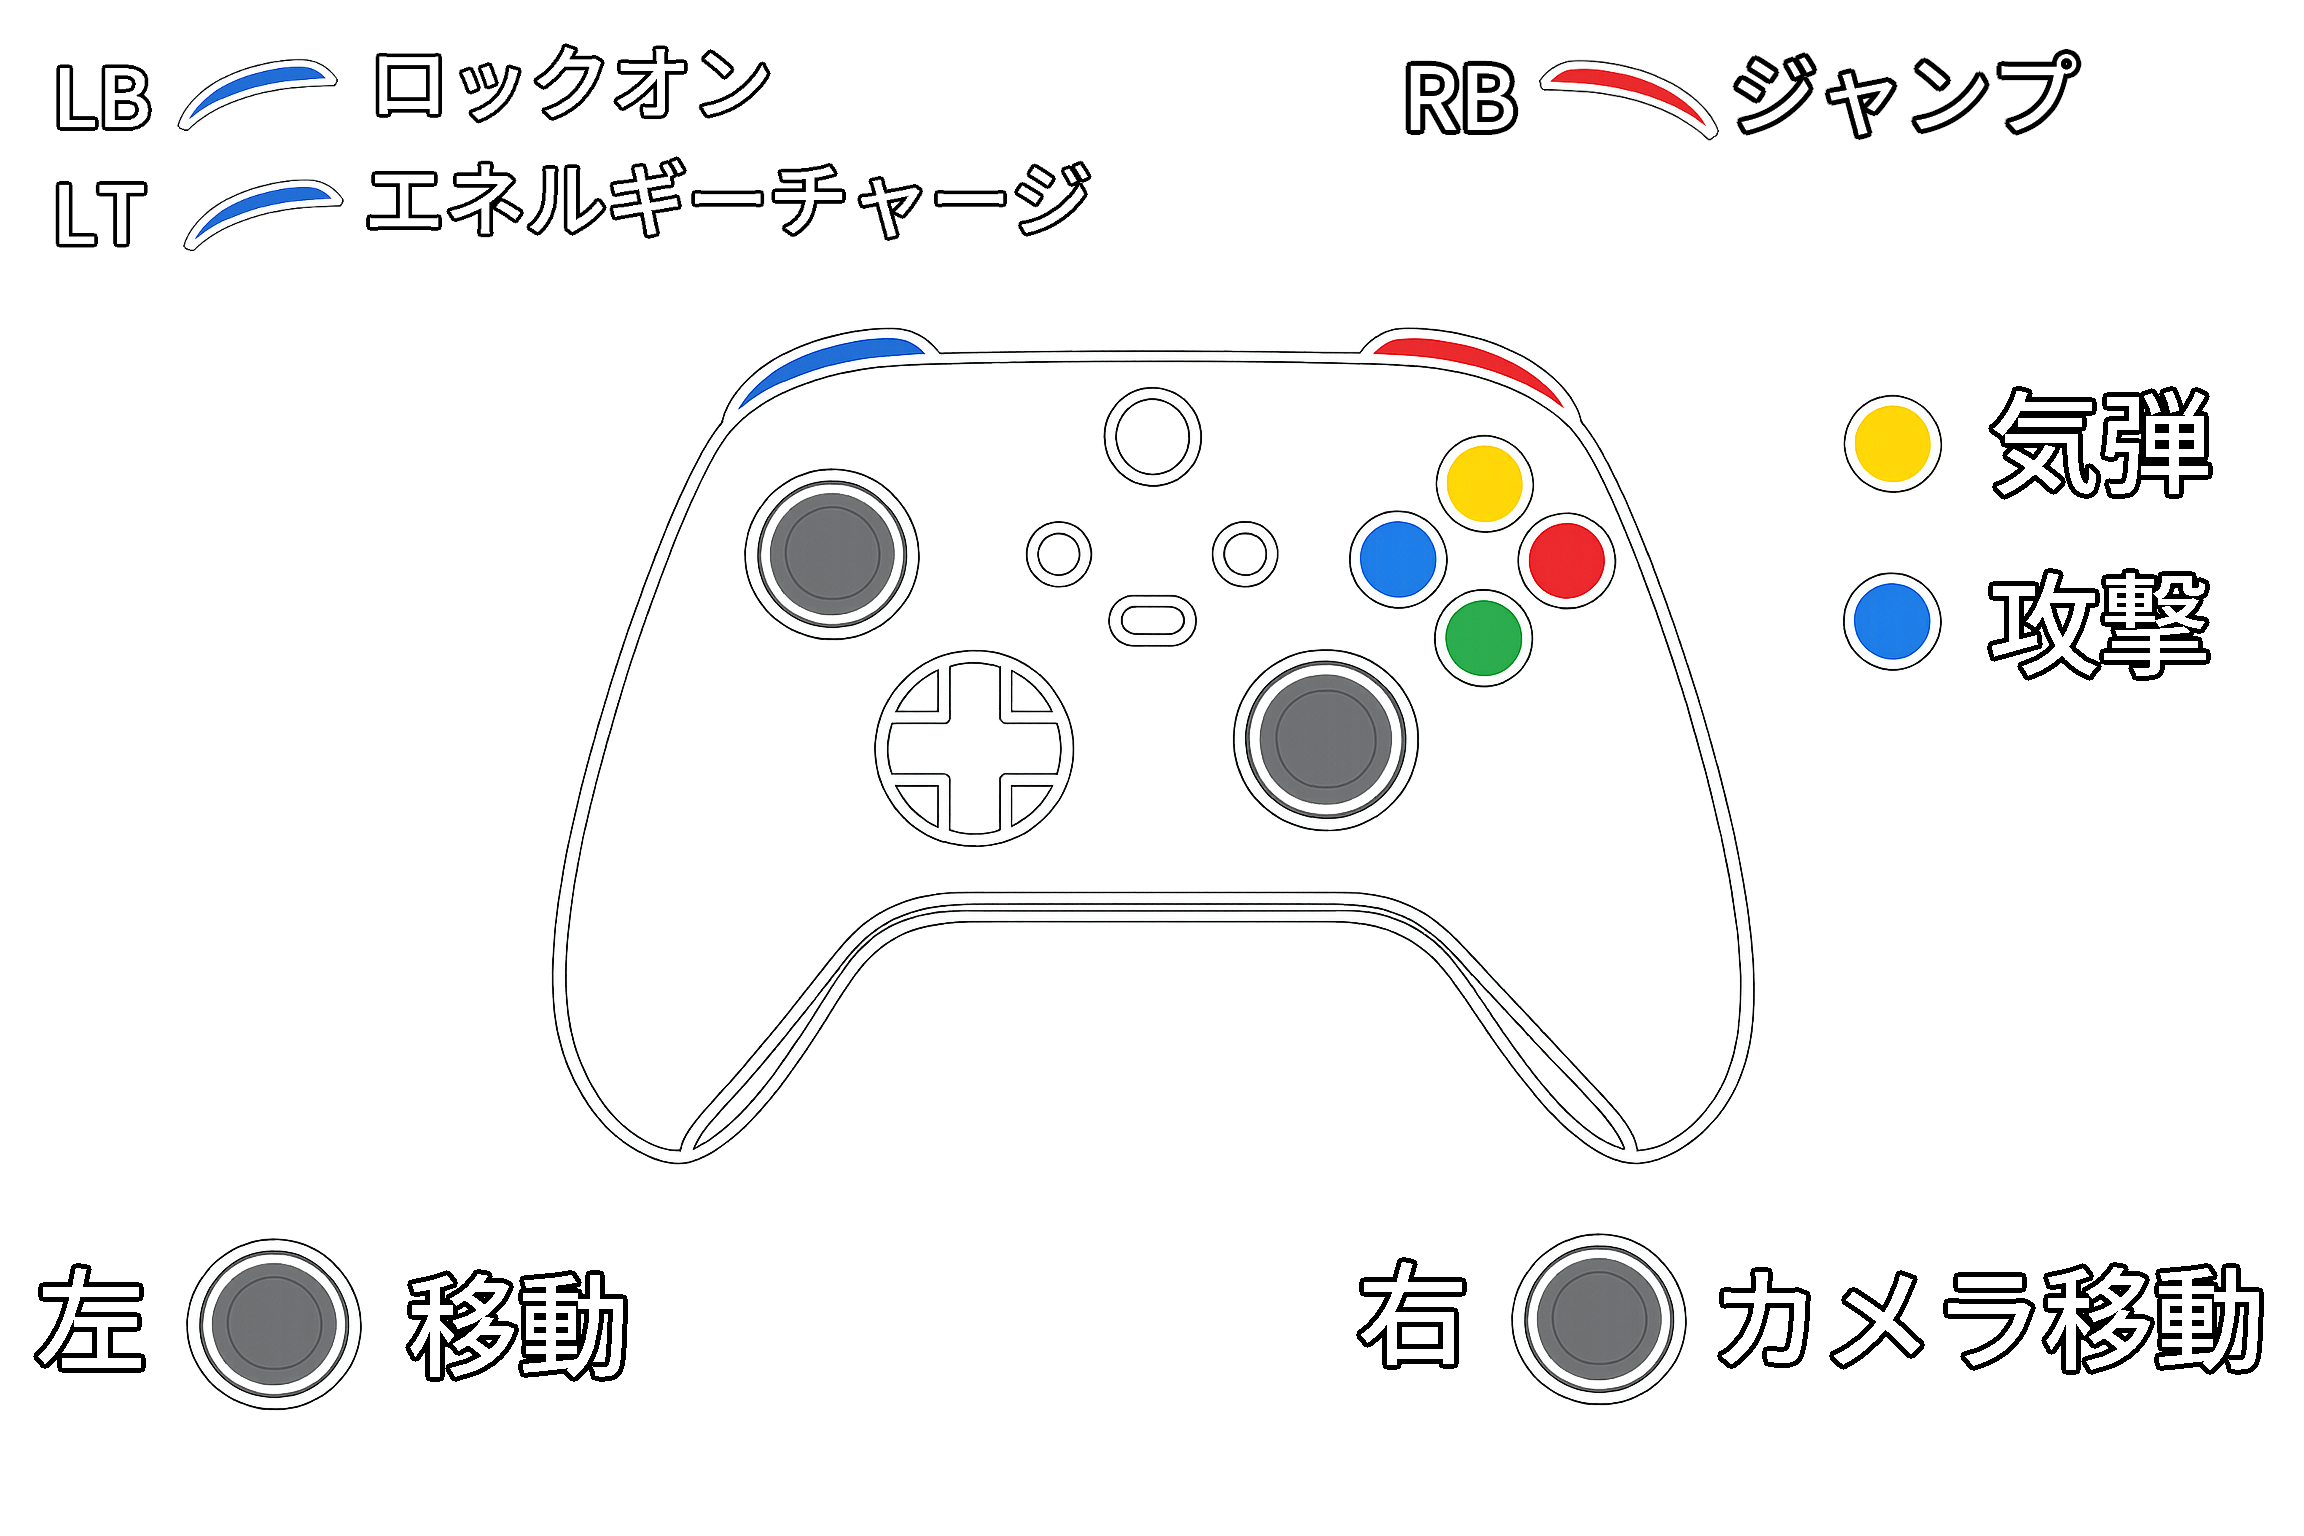
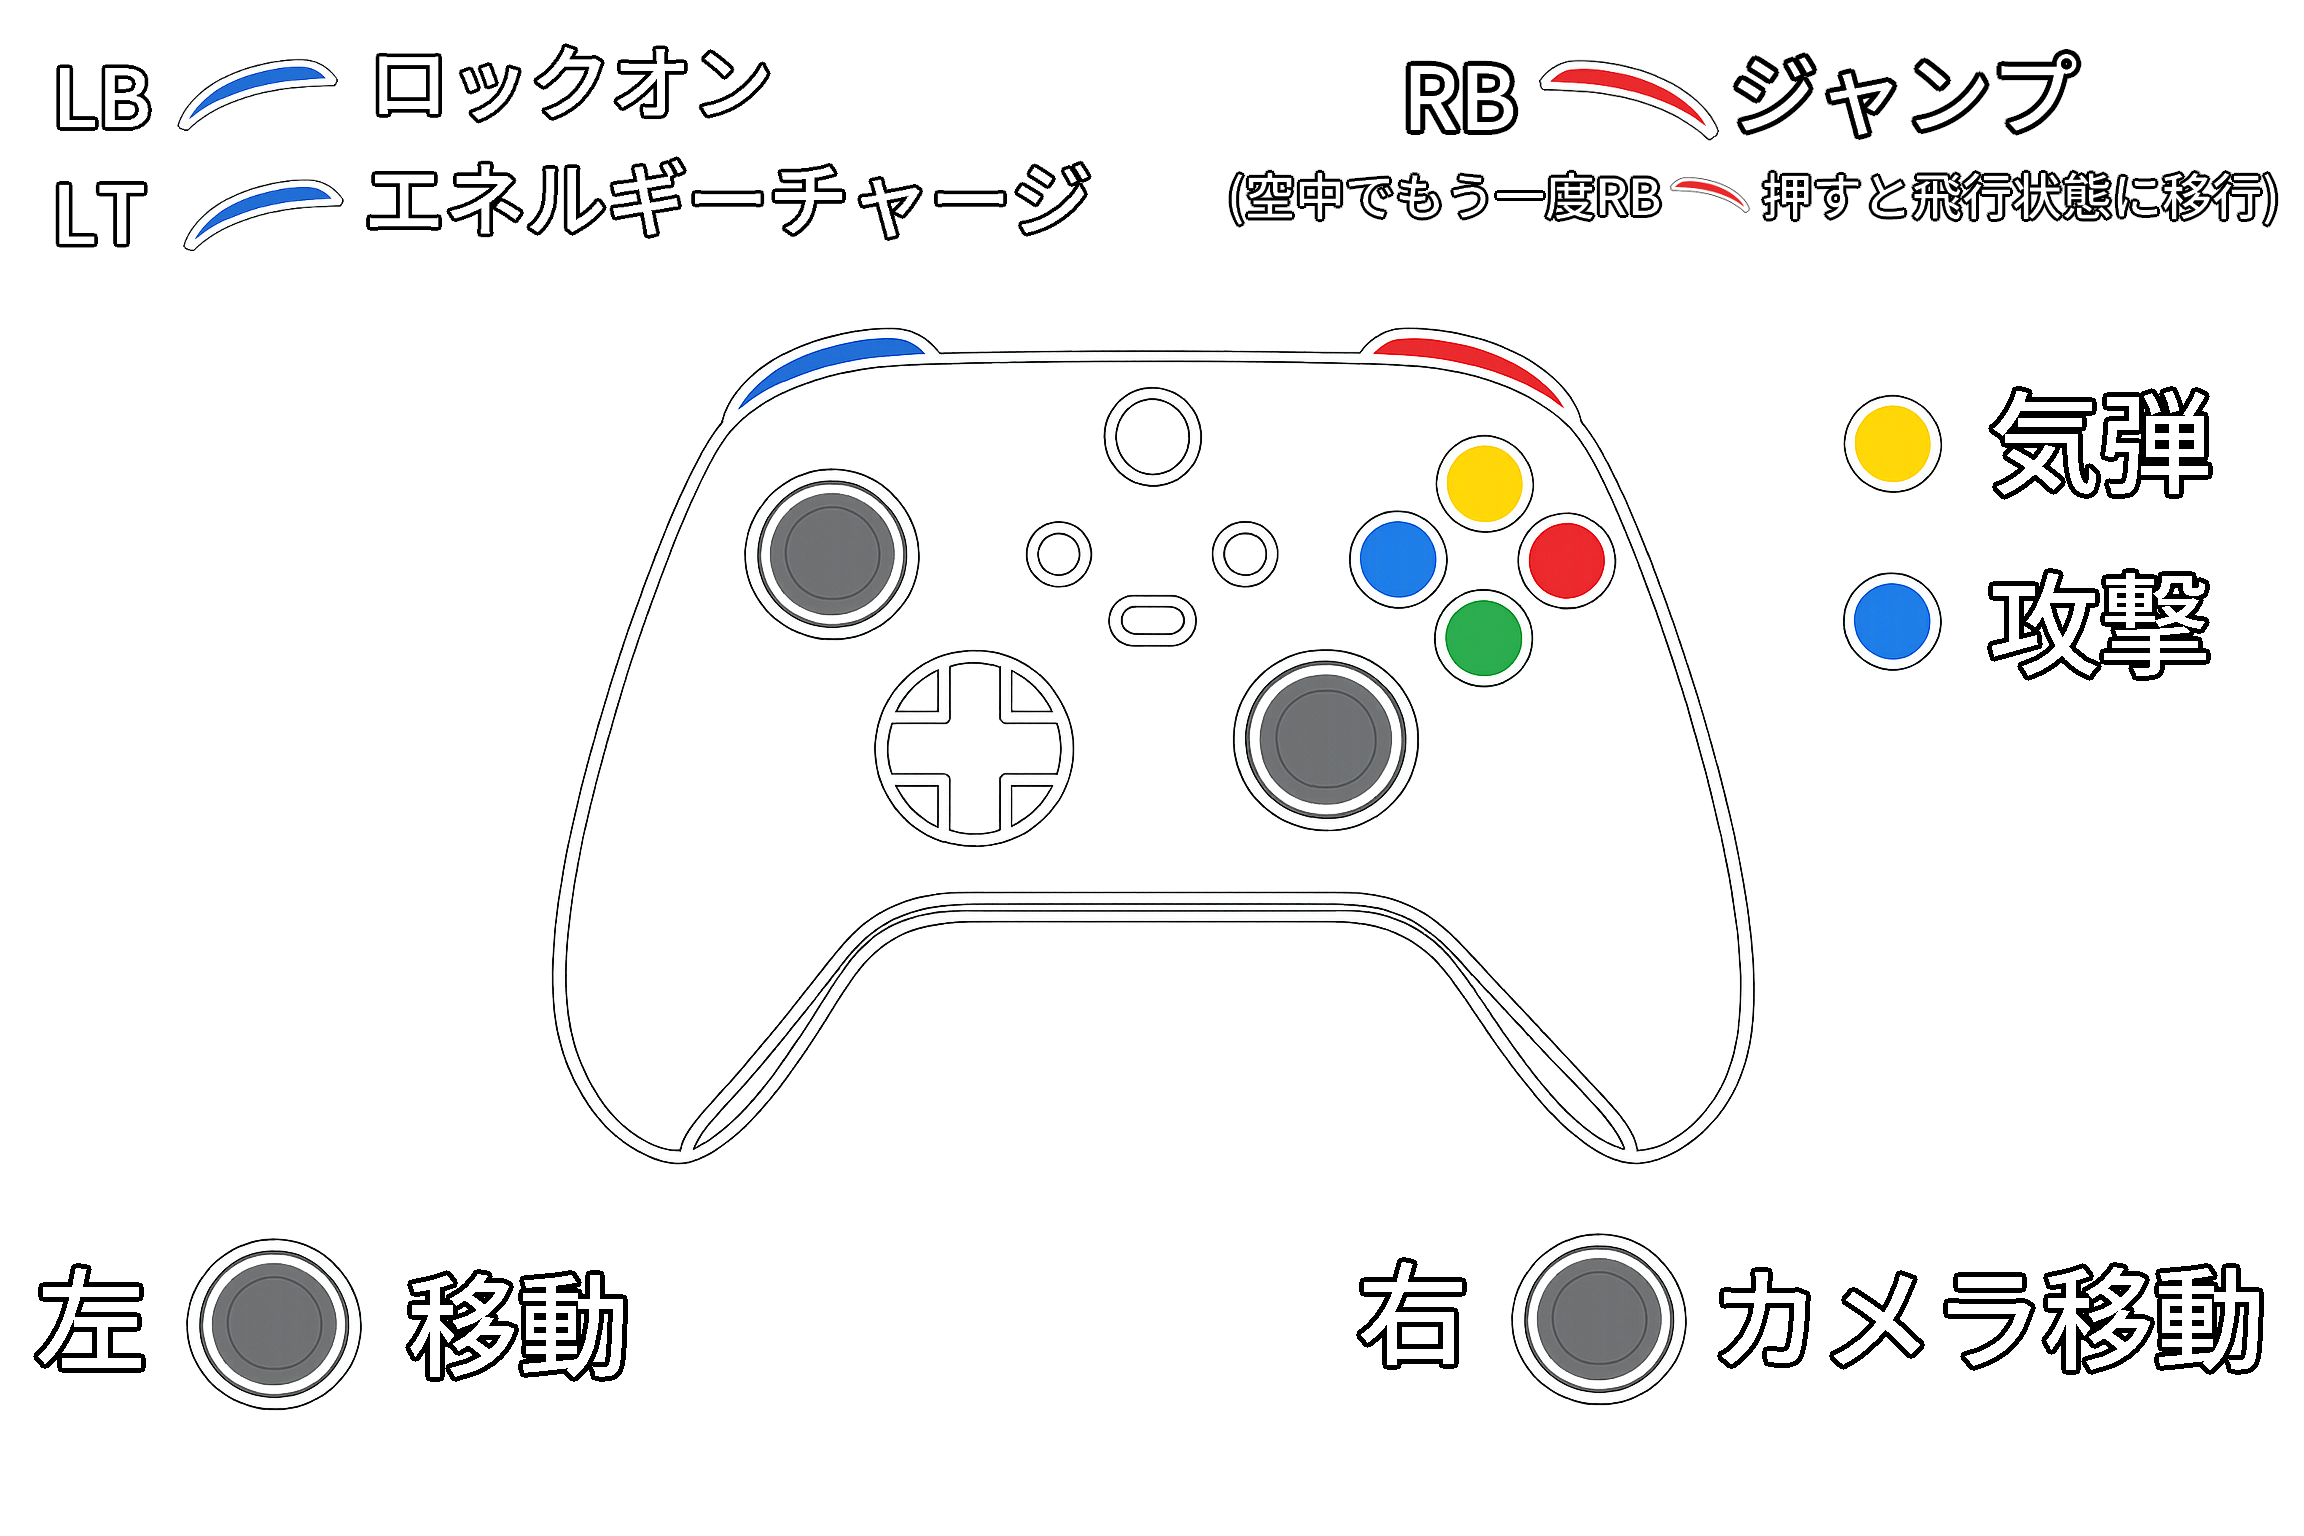
操作説明の追加

Changed region(s): [[0.5312, 0.0938, 1.0, 0.1562]]

diff --git a/Application/UI/Scene/Game/GameUI.cpp b/Application/UI/Scene/Game/GameUI.cpp
@@ -9,6 +9,7 @@ void GameUI::Initialize() {
     sprites_[MenuButton] = SpriteManager::GetInstance()->GetSprite("menuButton");
     sprites_[Controller] = SpriteManager::GetInstance()->GetSprite("controllerIcon");
     sprites_[BlackMask] = SpriteManager::GetInstance()->GetSprite("BlackMask");
+    sprites_[AirController] = SpriteManager::GetInstance()->GetSprite("AirControllerIcon");
     // sprites_[AttackButton] = SpriteManager::GetInstance()->GetSprite("attackButton");
     // sprites_[BulletButton] = SpriteManager::GetInstance()->GetSprite("bulletButton");
 }
@@ -29,12 +30,14 @@ void GameUI::Update() {
     }
 
     if (isPause_) {
-        sprites_[BlackMask]->sprite->SetAlpha(0.8f);
+        sprites_[BlackMask]->sprite->SetAlpha(0.975f);
         sprites_[Controller]->sprite->SetAlpha(1.0f);
+        sprites_[AirController]->sprite->SetAlpha(1.0f);
         sprites_[MenuButton]->sprite->SetAlpha(0.0f);
     } else {
         sprites_[BlackMask]->sprite->SetAlpha(0.0f);
         sprites_[Controller]->sprite->SetAlpha(0.0f);
+        sprites_[AirController]->sprite->SetAlpha(0.0f);
         sprites_[MenuButton]->sprite->SetAlpha(1.0f);
     }
 }

diff --git a/Application/UI/Scene/Game/GameUI.h b/Application/UI/Scene/Game/GameUI.h
@@ -13,6 +13,7 @@ class GameUI {
     enum SpriteIndex {
         MenuButton,
         Controller,
+        AirController,
         AttackButton,
         BulletButton,
         BlackMask,
